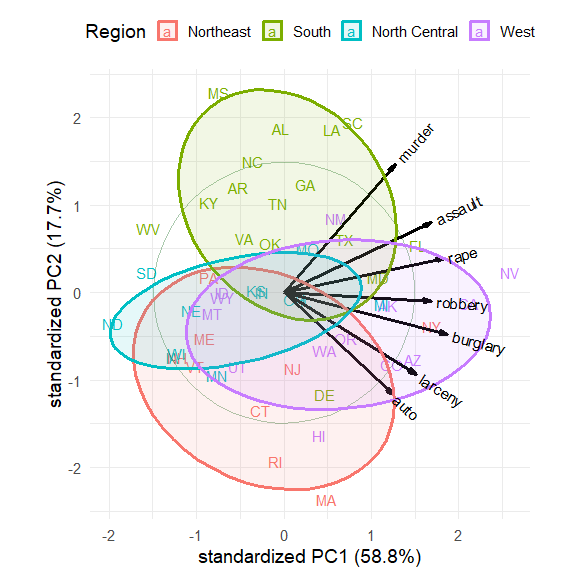
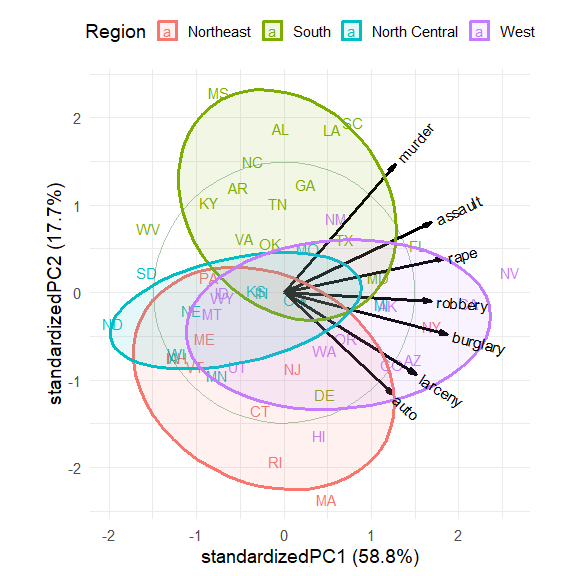
checkout additions in devel/

Changed region(s): [[0.3438, 0.9375, 0.75, 1.0], [0.0625, 0.3125, 0.125, 0.7188]]

diff --git a/NEWS.md b/NEWS.md
@@ -1,3 +1,12 @@
+## Version 0.6.2
+
+- corrected small bugs in `ggbiplot() and `ggscreeplot()`
+- `reflect()` now also reflects supplementary variables from `FactoMineR::PCA()`
+- added support for `ade4::dudi.pca()`
+- `ggbiplot()` gains an `axis.title` argument
+- `ggscreeplot()` gains `color`, `shape`, `linetype` and `linewidth` arguments
+- Added `get_SVD()` intended the simplify the interface to various PCA functions.
+
 ## Version 0.6.1
 
 - Revised documentation for `ggscreeplot()`
